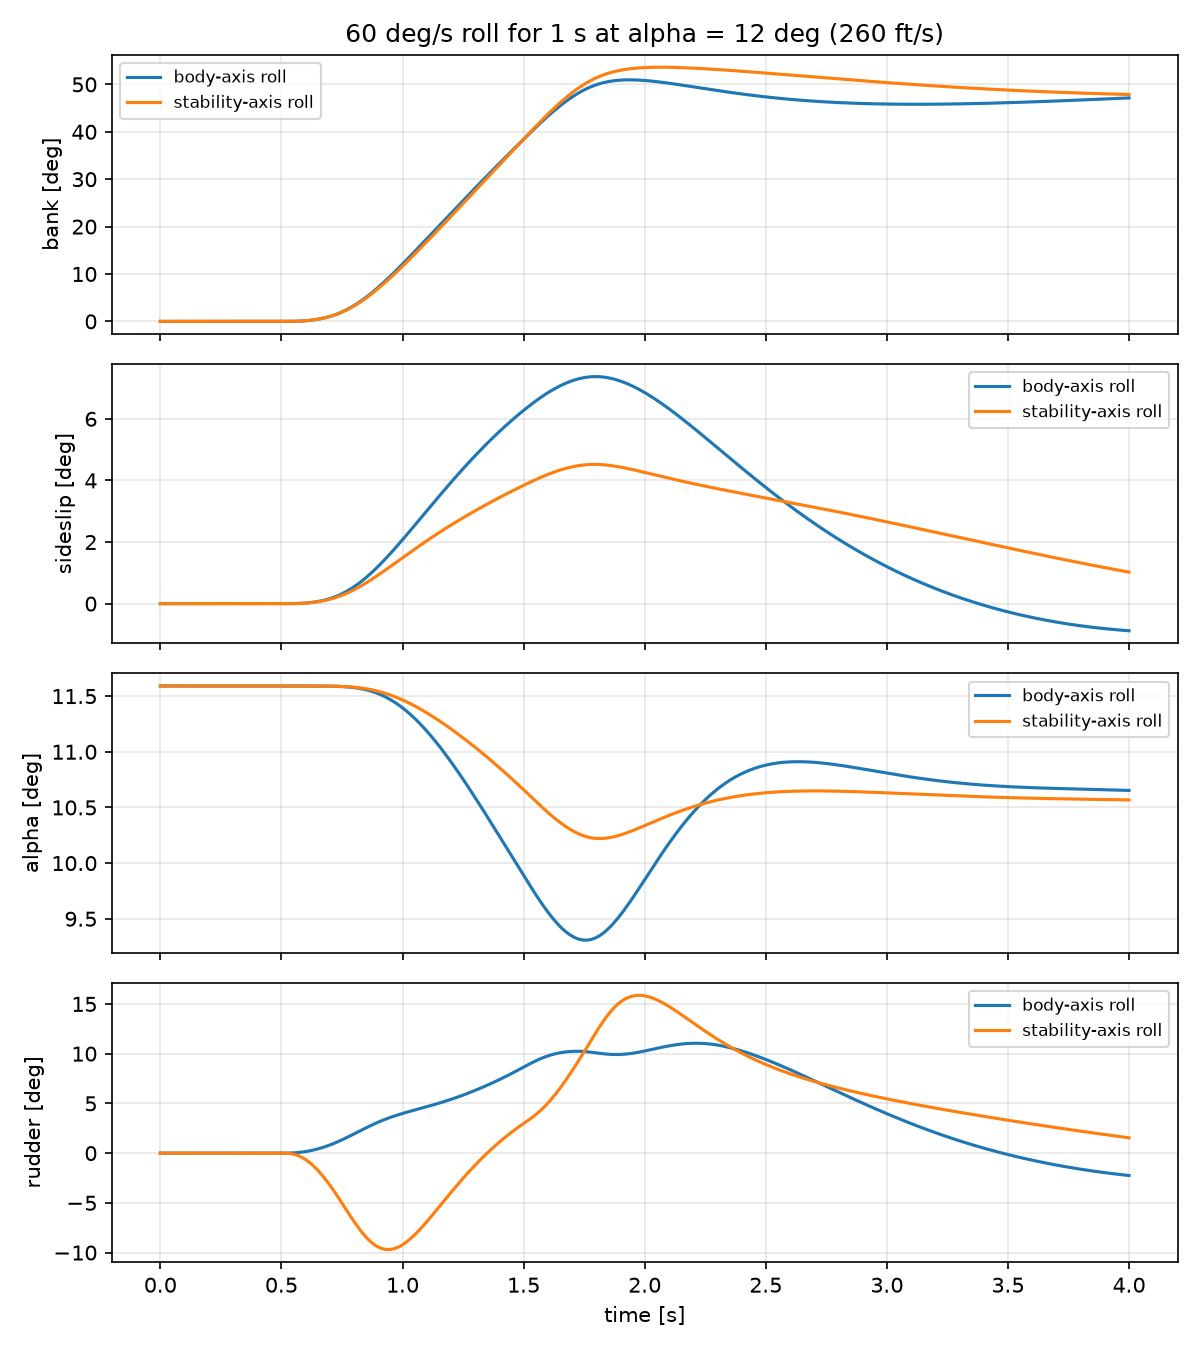
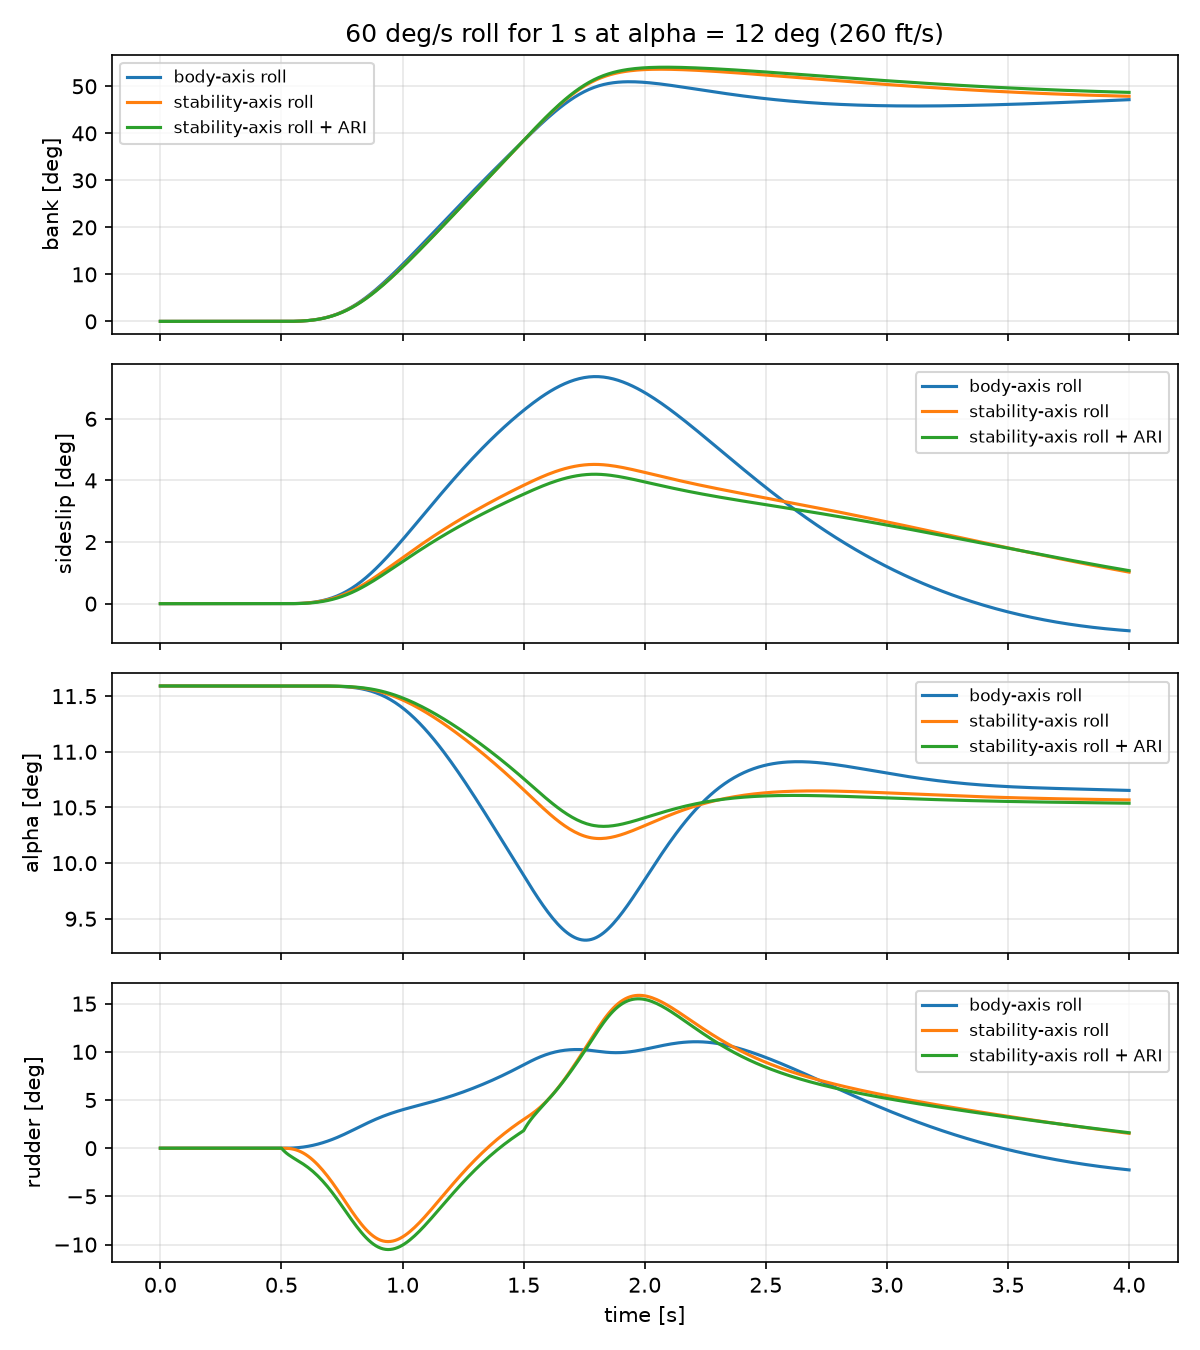
Add aileron-rudder interconnect and roll tracking diagnostics

diff --git a/f16/fcs.py b/f16/fcs.py
@@ -17,7 +17,8 @@ while the elevator is saturated.
 With roll_command = (kp, kff) the pilot roll input is a roll rate [deg/s]
 instead of an aileron angle (see roll.py). With stability_axis = True the yaw
 damper acts on the stability-axis yaw rate r - p tan(alpha), so the aircraft
-rolls about the velocity vector instead of the body axis.
+rolls about the velocity vector instead of the body axis. ari_gain adds the
+aileron-rudder interconnect, rudder = ari_gain * roll rate command.
 
 Augmented state z (20):
     z[0:13]  aircraft state (see dynamics.py)
@@ -86,6 +87,7 @@ class FlightControlSystem:
     `limiter` is an EnvelopeLimiter or None; it only acts with g_command.
     `roll_command` is (kp, kff) [deg per deg/s] or None for direct aileron input.
     `stability_axis` makes the yaw damper act on r - p tan(alpha).
+    `ari_gain` [deg of rudder per deg/s] acts with roll_command.
     """
 
     def __init__(self, x0: np.ndarray, u0: np.ndarray, gains: SasGains,
@@ -94,7 +96,7 @@ class FlightControlSystem:
                  model: str = "tables", g_command: tuple[float, float] | None = None,
                  limiter: EnvelopeLimiter | None = None, anti_windup: bool = True,
                  roll_command: tuple[float, float] | None = None,
-                 stability_axis: bool = False):
+                 stability_axis: bool = False, ari_gain: float = 0.0):
         self.x0, self.u0, self.g = x0, u0, gains
         self.tau, self.xcg = washout_tau, xcg
         self.lead, self.delay = lead, delay
@@ -102,6 +104,7 @@ class FlightControlSystem:
         self.g_command, self.limiter = g_command, limiter
         self.anti_windup = anti_windup
         self.roll_command, self.stability_axis = roll_command, stability_axis
+        self.ari_gain = ari_gain
         self.nz0 = load_factor_nz(x0, u0, xcg, model)
 
     def initial_state(self) -> np.ndarray:
@@ -158,15 +161,16 @@ class FlightControlSystem:
             kp, ki = self.g_command
             pilot_pitch = -(kp * self.nz_error(z, pilot) + ki * z[XI])
         if self.roll_command is None:
-            pilot_roll = pilot[2]
+            pilot_roll, ari = pilot[2], 0.0
         else:
             kp_roll, kff_roll = self.roll_command
             p_cmd = pilot[2]                              # deg/s
             pilot_roll = kff_roll * p_cmd + kp_roll * (p_cmd - np.degrees(z[P]))
+            ari = self.ari_gain * p_cmd
         r_washed = self.yaw_rate_signal(z) - z[XW]
         de = self.u0[1] + sas + pilot_pitch
         da = self.u0[2] + pilot_roll
-        dr = self.u0[3] + self.g.k_r * np.degrees(r_washed) + pilot[3]
+        dr = self.u0[3] + self.g.k_r * np.degrees(r_washed) + ari + pilot[3]
         return np.array([de, da, dr])
 
     def derivatives(self, t: float, z: np.ndarray, pilot: PilotFn) -> np.ndarray:

diff --git a/tests/test_stability_axis.py b/tests/test_stability_axis.py
@@ -4,7 +4,7 @@ import pytest
 from f16.dynamics import ALPHA, BETA, P, R
 from f16.fcs import FlightControlSystem
 from f16.linearize import linearize
-from f16.roll import design_roll_command
+from f16.roll import design_ari, design_roll_command
 from f16.sas import design_pitch_sas, design_yaw_damper
 from f16.trim import trim_level
 
@@ -18,6 +18,22 @@ def high_alpha():
     g = design_pitch_sas(a, b)
     g.k_r = design_yaw_damper(a, b)
     return r, a, b, g
+
+
+def roll_pilot(t):
+    p = np.zeros(4)
+    p[2] = 60.0 if 0.5 <= t < 1.5 else 0.0
+    return p
+
+
+def max_sideslip(high_alpha, stability_axis, ari):
+    r, a, b, g = high_alpha
+    roll = design_roll_command(a, b)
+    k_ari = design_ari(a, b, r.x[ALPHA], roll[1]) if ari else 0.0
+    fcs = FlightControlSystem(r.x, r.u, g, roll_command=roll,
+                              stability_axis=stability_axis, ari_gain=k_ari)
+    _, z = fcs.simulate(roll_pilot, 3.0)
+    return np.abs(np.degrees(z[:, BETA])).max()
 
 
 def test_trim_is_at_high_alpha(high_alpha):
@@ -45,19 +61,23 @@ def test_stability_axis_starts_in_equilibrium(high_alpha):
 
 
 def test_stability_axis_roll_reduces_sideslip(high_alpha):
-    r, a, b, g = high_alpha
-    roll = design_roll_command(a, b)
-
-    def pilot(t):
-        p = np.zeros(4)
-        p[2] = 60.0 if 0.5 <= t < 1.5 else 0.0
-        return p
-
-    max_beta = {}
-    for stability_axis in (False, True):
-        fcs = FlightControlSystem(r.x, r.u, g, roll_command=roll,
-                                  stability_axis=stability_axis)
-        _, z = fcs.simulate(pilot, 3.0)
-        max_beta[stability_axis] = np.abs(np.degrees(z[:, BETA])).max()
     # Measured: about 40 % less sideslip with the yaw damper alone (7.4 -> 4.5 deg)
-    assert max_beta[True] < 0.75 * max_beta[False]
+    body = max_sideslip(high_alpha, stability_axis=False, ari=False)
+    stab = max_sideslip(high_alpha, stability_axis=True, ari=False)
+    assert stab < 0.75 * body
+
+
+def test_ari_balances_yaw_in_a_steady_stability_axis_roll(high_alpha):
+    r, a, b, _ = high_alpha
+    _, kff = design_roll_command(a, b)
+    k_ari = design_ari(a, b, r.x[ALPHA], kff)
+    p = np.radians(1.0)                                  # 1 deg/s roll rate
+    yaw_accel = (a[R, P] * p + a[R, R] * p * np.tan(r.x[ALPHA])
+                 + b[R, 2] * kff + b[R, 3] * k_ari)
+    assert yaw_accel == pytest.approx(0.0, abs=1e-12)
+
+
+def test_ari_reduces_sideslip_further(high_alpha):
+    stab = max_sideslip(high_alpha, stability_axis=True, ari=False)
+    stab_ari = max_sideslip(high_alpha, stability_axis=True, ari=True)
+    assert stab_ari < stab

diff --git a/high_alpha_roll_demo.py b/high_alpha_roll_demo.py
@@ -1,4 +1,5 @@
-"""Rolling at high angle of attack: body-axis vs stability-axis roll."""
+"""Rolling at high angle of attack: body-axis roll, stability-axis roll and
+stability-axis roll with aileron-rudder interconnect (ARI)."""
 
 from pathlib import Path
 
@@ -8,7 +9,7 @@ import numpy as np
 from f16.dynamics import ALPHA, BETA, PHI
 from f16.fcs import DA, DR, FlightControlSystem
 from f16.linearize import linearize
-from f16.roll import design_roll_command
+from f16.roll import design_ari, design_roll_command
 from f16.sas import design_pitch_sas, design_yaw_damper
 from f16.trim import trim_level
 
@@ -30,17 +31,24 @@ def main():
     g = design_pitch_sas(a, b)
     g.k_r = design_yaw_damper(a, b)
     roll = design_roll_command(a, b)
+    k_ari = design_ari(a, b, r.x[ALPHA], roll[1])
     print(f"Trim at {VT0:.0f} ft/s, sea level: alpha = {r.alpha_deg:.1f} deg")
+    print(f"ARI gain: {k_ari:.4f} deg of rudder per deg/s "
+          f"({k_ari * P_CMD:.1f} deg of rudder at {P_CMD:.0f} deg/s)")
     print(f"Kinematic estimate for body-axis roll to {P_CMD:.0f} deg bank: "
           f"beta ~ alpha * sin(phi) = {r.alpha_deg * np.sin(np.radians(P_CMD)):.1f} deg\n")
 
+    cases = [("body-axis roll", False, 0.0),
+             ("stability-axis roll", True, 0.0),
+             ("stability-axis roll + ARI", True, k_ari)]
+
     fig, axes = plt.subplots(4, 1, figsize=(8, 9), sharex=True)
-    for name, stability_axis in (("body-axis roll", False), ("stability-axis roll", True)):
+    for name, stability_axis, ari in cases:
         fcs = FlightControlSystem(r.x, r.u, g, roll_command=roll,
-                                  stability_axis=stability_axis)
+                                  stability_axis=stability_axis, ari_gain=ari)
         t, z = fcs.simulate(pilot, T_FINAL)
         phi, beta, alpha = (np.degrees(z[:, i]) for i in (PHI, BETA, ALPHA))
-        print(f"{name:20s}: max |beta| {np.abs(beta).max():5.2f} deg, "
+        print(f"{name:26s}: max |beta| {np.abs(beta).max():5.2f} deg, "
               f"bank at {T_FINAL:.0f} s {phi[-1]:5.1f} deg, "
               f"alpha {alpha.min():4.1f} - {alpha.max():4.1f} deg, "
               f"max |aileron| {np.abs(z[:, DA]).max():4.1f}, "

diff --git a/f16/roll.py b/f16/roll.py
@@ -1,5 +1,5 @@
 """
-Roll rate command system.
+Roll rate command system and aileron-rudder interconnect.
 
 The pilot commands a roll rate; the aileron command combines feedforward of
 the command with proportional feedback of the roll rate error:
@@ -10,15 +10,19 @@ On the one-state roll mode model  p_dot = Lp p + Lda aileron  the closed-loop
 pole is Lp - Lda * kp, and kff = -Lp / Lda gives zero steady-state error.
 Positive aileron gives a negative rolling moment on this model, so both gains
 come out negative.
+
+The aileron-rudder interconnect (ARI) adds rudder = k_ari * p_cmd, chosen so
+that a steady roll about the velocity vector (r = p tan(alpha), beta = 0)
+has zero yaw acceleration, cancelling adverse yaw and supplying the yaw rate.
 """
 
 from dataclasses import dataclass
 
 import numpy as np
 
-from f16.dynamics import P
+from f16.dynamics import P, R
 
-AILERON = 2   # index in the control vector
+AILERON, RUDDER = 2, 3   # indices in the control vector
 
 
 @dataclass
@@ -40,3 +44,16 @@ def design_roll_command(a: np.ndarray, b: np.ndarray,
     kp = (m.lp + bandwidth) / m.lda
     kff = -m.lp / m.lda
     return float(kp), float(kff)
+
+
+def design_ari(a: np.ndarray, b: np.ndarray, alpha0: float, kff: float) -> float:
+    """ARI gain [deg of rudder per deg/s of roll rate command].
+
+    alpha0 is the trim angle of attack [rad], kff the aileron feedforward gain.
+    Solves  N_p p + N_r p tan(alpha0) + N_da kff p_cmd + N_dr k_ari p_cmd = 0
+    with p = p_cmd, p and r in rad/s, surfaces in deg.
+    """
+    per_deg_s = np.radians(1.0)                 # 1 deg/s of roll rate in rad/s
+    yaw_from_rates = (a[R, P] + a[R, R] * np.tan(alpha0)) * per_deg_s
+    yaw_from_aileron = b[R, AILERON] * kff
+    return float(-(yaw_from_rates + yaw_from_aileron) / b[R, RUDDER])

diff --git a/diagnose_bank.py b/diagnose_bank.py
@@ -1,0 +1,42 @@
+"""Where does the bank angle go? Compare the body roll rate with the Euler bank angle."""
+
+import numpy as np
+
+from f16.dynamics import ALPHA, P, PHI, THETA
+from f16.fcs import FlightControlSystem
+from f16.linearize import linearize
+from f16.roll import design_ari, design_roll_command
+from f16.sas import design_pitch_sas, design_yaw_damper
+from f16.trim import trim_level
+
+VT0 = 260.0
+
+
+def pilot(t):
+    p = np.zeros(4)
+    p[2] = 60.0 if 0.5 <= t < 1.5 else 0.0
+    return p
+
+
+r = trim_level(VT0)
+a, b = linearize(r.x, r.u)
+g = design_pitch_sas(a, b)
+g.k_r = design_yaw_damper(a, b)
+roll = design_roll_command(a, b)
+k_ari = design_ari(a, b, r.x[ALPHA], roll[1])
+print(f"roll gains kp = {roll[0]:.3f}, kff = {roll[1]:.3f}; commanded: 60 deg/s for 1 s\n")
+
+for name, stability_axis, ari in (("body-axis", False, 0.0),
+                                  ("stability-axis + ARI", True, k_ari)):
+    fcs = FlightControlSystem(r.x, r.u, g, roll_command=roll,
+                              stability_axis=stability_axis, ari_gain=ari)
+    t, z = fcs.simulate(pilot, 4.0)
+    p = np.degrees(z[:, P])
+
+    def at(time):
+        return p[np.argmin(np.abs(t - time))]
+
+    print(f"{name:22s}: p at 0.75 / 1.0 / 1.4 s = {at(0.75):5.1f} / {at(1.0):5.1f} / "
+          f"{at(1.4):5.1f} deg/s, integral of p = {np.trapezoid(p, t):5.1f} deg, "
+          f"final bank = {np.degrees(z[-1, PHI]):5.1f} deg, "
+          f"final pitch = {np.degrees(z[-1, THETA]):5.1f} deg")

diff --git a/diagnose_roll.py b/diagnose_roll.py
@@ -1,0 +1,18 @@
+"""Can the aircraft roll at 60 deg/s at 260 ft/s?"""
+
+from f16.linearize import linearize
+from f16.roll import design_roll_command, roll_mode
+from f16.trim import trim_level
+
+AILERON_LIMIT = 21.5   # deg
+P_CMD = 60.0           # deg/s
+
+for vt in (260.0, 502.0):
+    r = trim_level(vt)
+    a, b = linearize(r.x, r.u)
+    m = roll_mode(a, b)
+    kp, kff = design_roll_command(a, b)
+    p_max = abs(m.lda) * AILERON_LIMIT / abs(m.lp)
+    print(f"VT = {vt:3.0f} ft/s: Lp = {m.lp:6.3f} 1/s, Lda = {m.lda:7.3f} (deg/s^2)/deg, "
+          f"max steady roll rate = {p_max:5.1f} deg/s, "
+          f"aileron needed for {P_CMD:.0f} deg/s = {abs(kff) * P_CMD:5.1f} deg")
